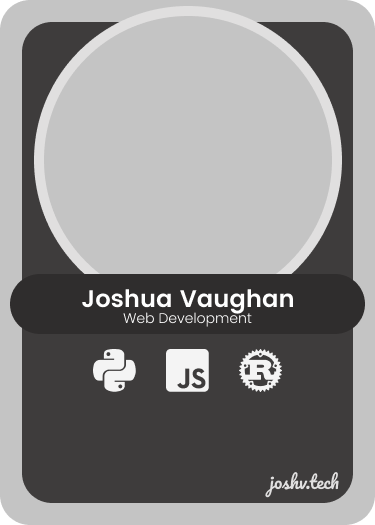
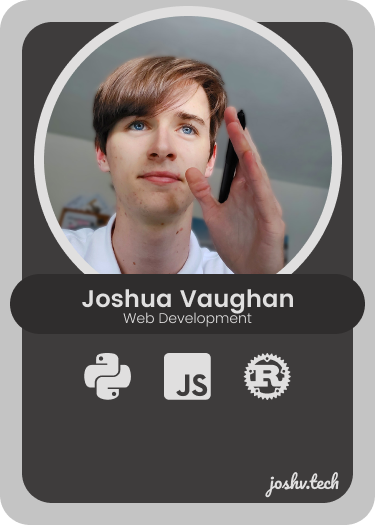
New card, link fixes

diff --git a/src/components/mediaIcon.js b/src/components/mediaIcon.js
@@ -3,7 +3,7 @@ import { Col } from "react-bootstrap";
 export default function MediaIcon({name, icon, url}) {
     return (
         <Col xs="auto">
-            <a className="text-muted mb-0" href={url} style={{textDecoration: "none"}}><i className={icon}></i> {name}</a>
+            <a className="text-muted mb-0" href={url} target="_blank" style={{textDecoration: "none"}}><i className={icon}></i> {name}</a>
         </Col>
     )
 }
